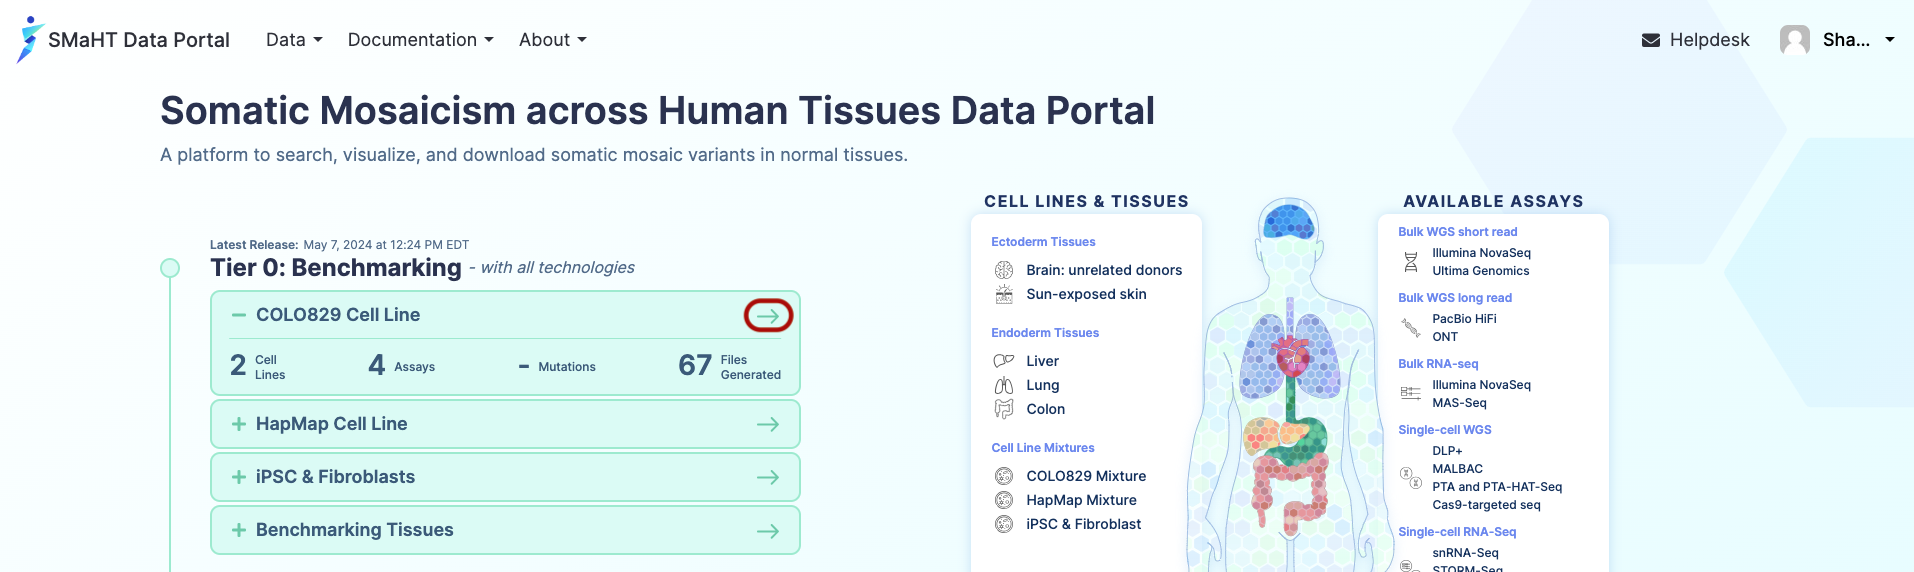
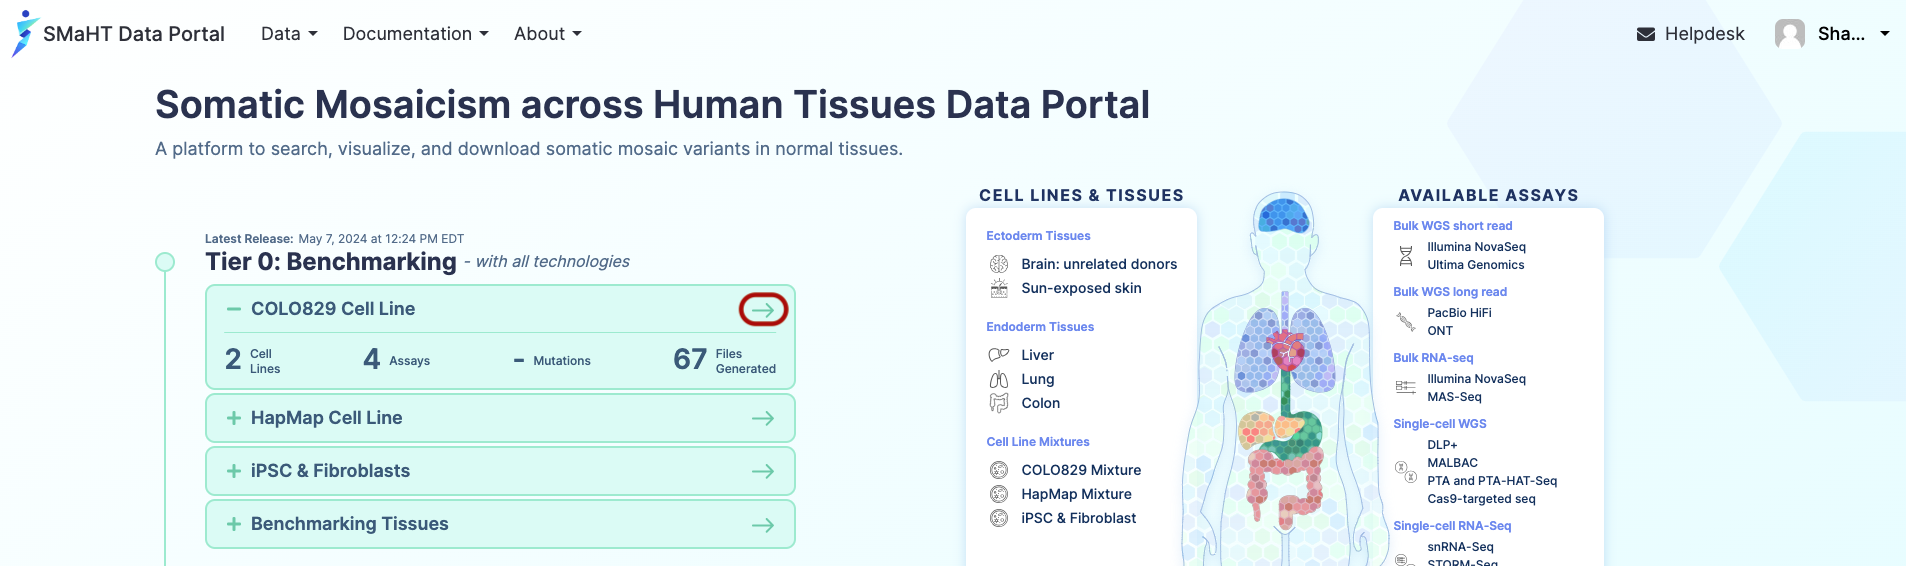
style: adjust spacing and homepage screenshot

diff --git a/docs/source/file_download.rst b/docs/source/file_download.rst
@@ -6,14 +6,16 @@ Before You Can Download
 ^^^^^^^^^^^^^^^^^^^^^^^
 You need to be able to log into the portal to access the data. To obtain portal access, you need to:
 
-1. Become a verified member of the SMaHT Network. Contact OC `here <mailto:smahtsupport@gowustl.onmicrosoft.com>`_ for more information about verification.
+1. Become a verified member of the SMaHT Network. Contact `OC <mailto:smahtsupport@gowustl.onmicrosoft.com>`_ for more information about verification.
 
 **AND**
 
 2. Get added to the portal user base at DAC. Contact `DAC <mailto:smhelp@hms-dbmi.atlassian.net>`_ to obtain portal access.
 
 .. TIP::
-   To run the download command and gain access to SMaHT data, all users need to **create a secret access key** on the portal. If you have not yet created an access key, please see the `Credentials </docs/user-guide/credentials>`_ page for detailed instruction.
+   To run the download command and gain access to SMaHT data, all users need to **create a secret access key** on the portal.
+   
+   If you have not yet created an access key, please see the `Credentials </docs/user-guide/credentials>`_ page for detailed instruction.
 
 |
 
